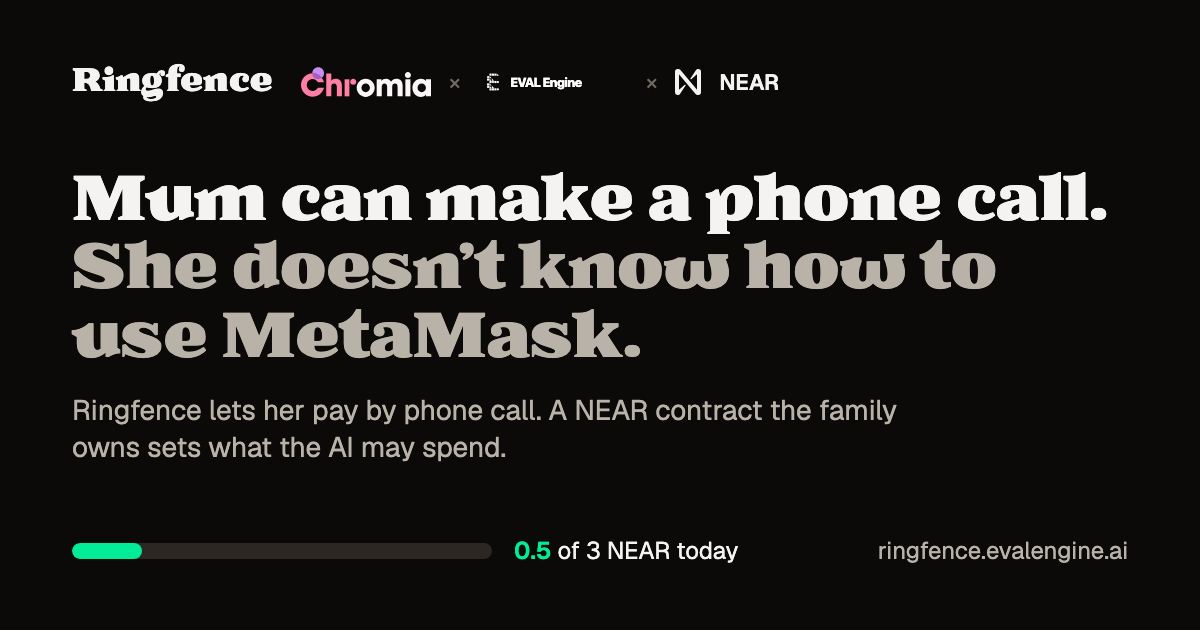
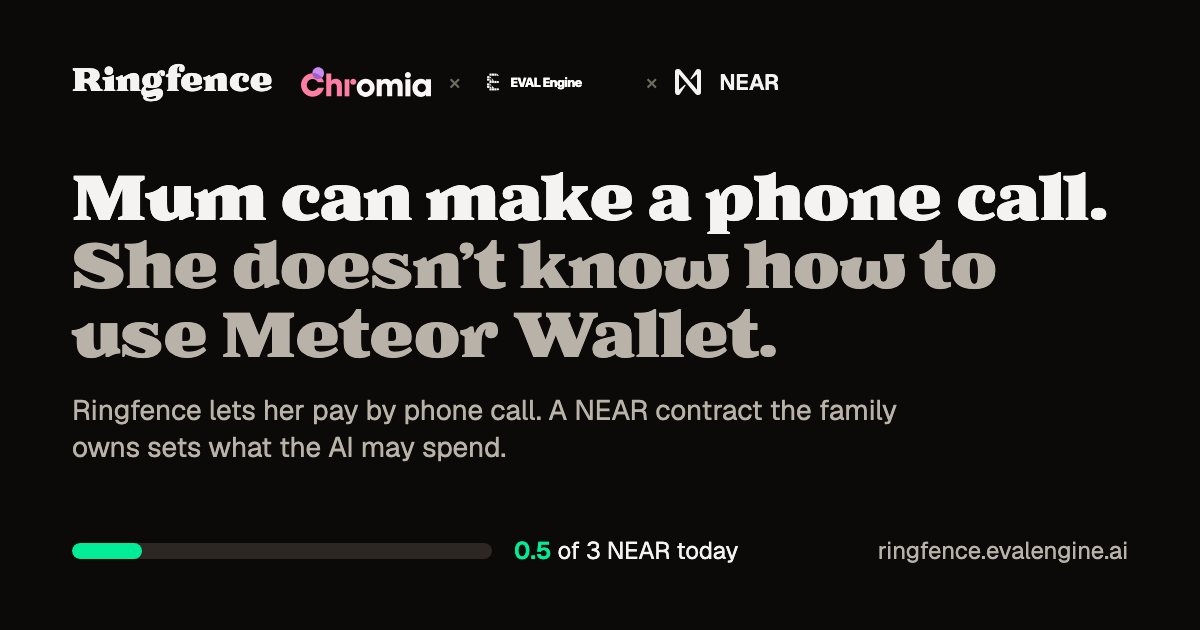
Lead with Meteor Wallet instead of MetaMask (NEAR ecosystem focus)

Changed region(s): [[0.3083, 0.4825, 0.6475, 0.573]]

diff --git a/app/routes/__root.tsx b/app/routes/__root.tsx
@@ -7,13 +7,13 @@ import skin from '../styles/dark-room.css?url';
 export const Route = createRootRoute({
   head: () => ({
     meta: [{ charSet: 'utf-8' }, { name: 'viewport', content: 'width=device-width, initial-scale=1' }, { title: 'Ringfence' }, { name: 'theme-color', content: '#0c0a08' },
-      { name: 'description', content: 'Mum can make a phone call. She doesn’t know how to use MetaMask. Ringfence lets her pay by phone call; a NEAR contract the family owns sets what the AI may spend.' },
+      { name: 'description', content: 'Mum can make a phone call. She doesn’t know how to use Meteor Wallet. Ringfence lets her pay by phone call; a NEAR contract the family owns sets what the AI may spend.' },
       { property: 'og:type', content: 'website' }, { property: 'og:site_name', content: 'Ringfence' },
       { property: 'og:title', content: 'Ringfence: pay by phone call, inside limits your family sets' },
-      { property: 'og:description', content: 'Mum can make a phone call. She doesn’t know how to use MetaMask. A NEAR contract the family owns caps what the AI can spend.' },
+      { property: 'og:description', content: 'Mum can make a phone call. She doesn’t know how to use Meteor Wallet. A NEAR contract the family owns caps what the AI can spend.' },
       { property: 'og:url', content: 'https://ringfence.evalengine.ai/' },
       { property: 'og:image', content: 'https://ringfence.evalengine.ai/og.png' }, { property: 'og:image:width', content: '1200' }, { property: 'og:image:height', content: '630' },
-      { property: 'og:image:alt', content: 'Ringfence: Mum can make a phone call. She doesn’t know how to use MetaMask.' },
+      { property: 'og:image:alt', content: 'Ringfence: Mum can make a phone call. She doesn’t know how to use Meteor Wallet.' },
       { name: 'twitter:card', content: 'summary_large_image' }, { name: 'twitter:image', content: 'https://ringfence.evalengine.ai/og.png' },
       { name: 'twitter:title', content: 'Ringfence: pay by phone call, inside limits your family sets' },
       { name: 'twitter:description', content: 'A NEAR contract the family owns caps what the AI can spend.' }],

diff --git a/app/routes/index.tsx b/app/routes/index.tsx
@@ -12,7 +12,7 @@ const getInfo = createServerFn({ method: 'GET' }).handler(async () => {
 
 export const Route = createFileRoute('/')({
   loader: () => getInfo(),
-  head: () => ({ meta: [{ title: 'Ringfence: pay by phone call, inside limits the family sets' }, { name: 'description', content: 'Mum can make a phone call. She doesn’t know how to use MetaMask. Ringfence lets her pay by voice, and a NEAR contract the family owns caps what the AI can spend.' }] }),
+  head: () => ({ meta: [{ title: 'Ringfence: pay by phone call, inside limits the family sets' }, { name: 'description', content: 'Mum can make a phone call. She doesn’t know how to use Meteor Wallet. Ringfence lets her pay by voice, and a NEAR contract the family owns caps what the AI can spend.' }] }),
   component: Landing,
 });
 
@@ -41,7 +41,7 @@ function Landing() {
 
         <div className="top">
           <div className="intro">
-            <h1 className="rise"><span>Mum can make a phone call.</span> <span>She doesn’t know how to use MetaMask.</span></h1>
+            <h1 className="rise"><span>Mum can make a phone call.</span> <span>She doesn’t know how to use Meteor Wallet.</span></h1>
             <p className="lead rise" style={i(1)}>Ringfence lets you pay by phone call. Your phone number is linked to a NEAR wallet, and a contract you own sets what the AI may spend.</p>
             <div className="acts rise" style={i(3)}>
               <a className="btn" href="#call" onClick={tryCall}>Try a call in your browser</a>

diff --git a/app/routes/wallet.bind.tsx b/app/routes/wallet.bind.tsx
@@ -70,7 +70,7 @@ function Bind() {
       <h1>Your phone number is a wallet</h1>
       <p className="err" role="note"><b>Unaudited prototype: keep small amounts.</b> The phone-wallet contract has not been audited.{cfg.network === 'mainnet' ? ' This is NEAR mainnet: real money.' : ''}</p>
 
-      <p className="muted">Mum can make a phone call; she doesn't need to know MetaMask. Bind a NEAR wallet to a WhatsApp number, then on a call say “send 0.1 NEAR to liho.{sfx}”. Up to {cfg.small} NEAR is confirmed with a spoken PIN; more needs an Approve tap on WhatsApp. The contract checks the limits before anything moves, and the owner can withdraw or revoke at any time.</p>
+      <p className="muted">Mum can make a phone call; she doesn't need to know Meteor Wallet. Bind a NEAR wallet to a WhatsApp number, then on a call say “send 0.1 NEAR to liho.{sfx}”. Up to {cfg.small} NEAR is confirmed with a spoken PIN; more needs an Approve tap on WhatsApp. The contract checks the limits before anything moves, and the owner can withdraw or revoke at any time.</p>
 
       <section className="card">
         <h2>Who is it for?</h2>

diff --git a/scripts/og.html b/scripts/og.html
@@ -21,7 +21,7 @@ p { font-size: 28px; color: #b8b2a8; max-width: 900px; line-height: 1.35; margin
 </style>
 <div class="makers"><span class="brand">Ringfence</span><img src="../public/brand/chromia-logo-dark.svg" alt=""><span>×</span><img src="../public/brand/evalengine-wordmark-light.svg" alt=""><span>×</span><img class="near" src="../public/brand/near-mark-light.svg" alt=""><span style="color:#f4f3f1;font-weight:600">NEAR</span></div>
 <div>
-  <h1>Mum can make a phone call.<br><span class="muted">She doesn’t know how to use MetaMask.</span></h1>
+  <h1>Mum can make a phone call.<br><span class="muted">She doesn’t know how to use Meteor Wallet.</span></h1>
   <p>Ringfence lets her pay by phone call. A NEAR contract the family owns sets what the AI may spend.</p>
 </div>
 <div class="fence"><div class="track"><div class="fill"></div></div><span><b>0.5</b> of 3 NEAR today</span><span class="url">ringfence.evalengine.ai</span></div>

diff --git a/SELF-HOST.md b/SELF-HOST.md
@@ -1,6 +1,6 @@
 # Self-host Ringfence in about 15 minutes
 
-Mum can make a phone call. She doesn't know how to use MetaMask. The family (the guardian) owns her phone wallet, and the contract caps what the AI agent can spend.
+Mum can make a phone call. She doesn't know how to use Meteor Wallet. The family (the guardian) owns her phone wallet, and the contract caps what the AI agent can spend.
 
 With the hosted Ringfence, our server holds the agent key. If you would rather trust your own server, run your own operator and point your wallet's agent at it. The contract rules stay the same: the agent spends only within your limits, and only the owner can withdraw, change limits or revoke the agent.
 
